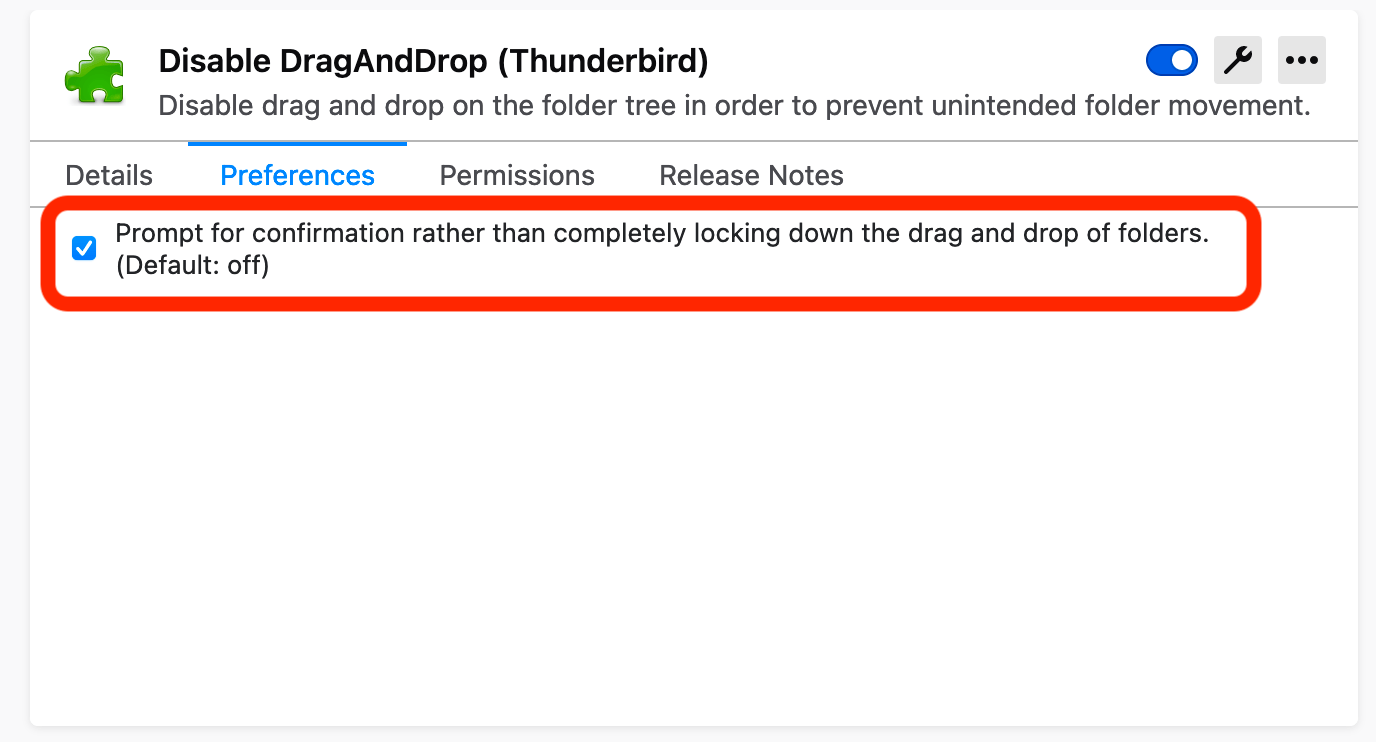
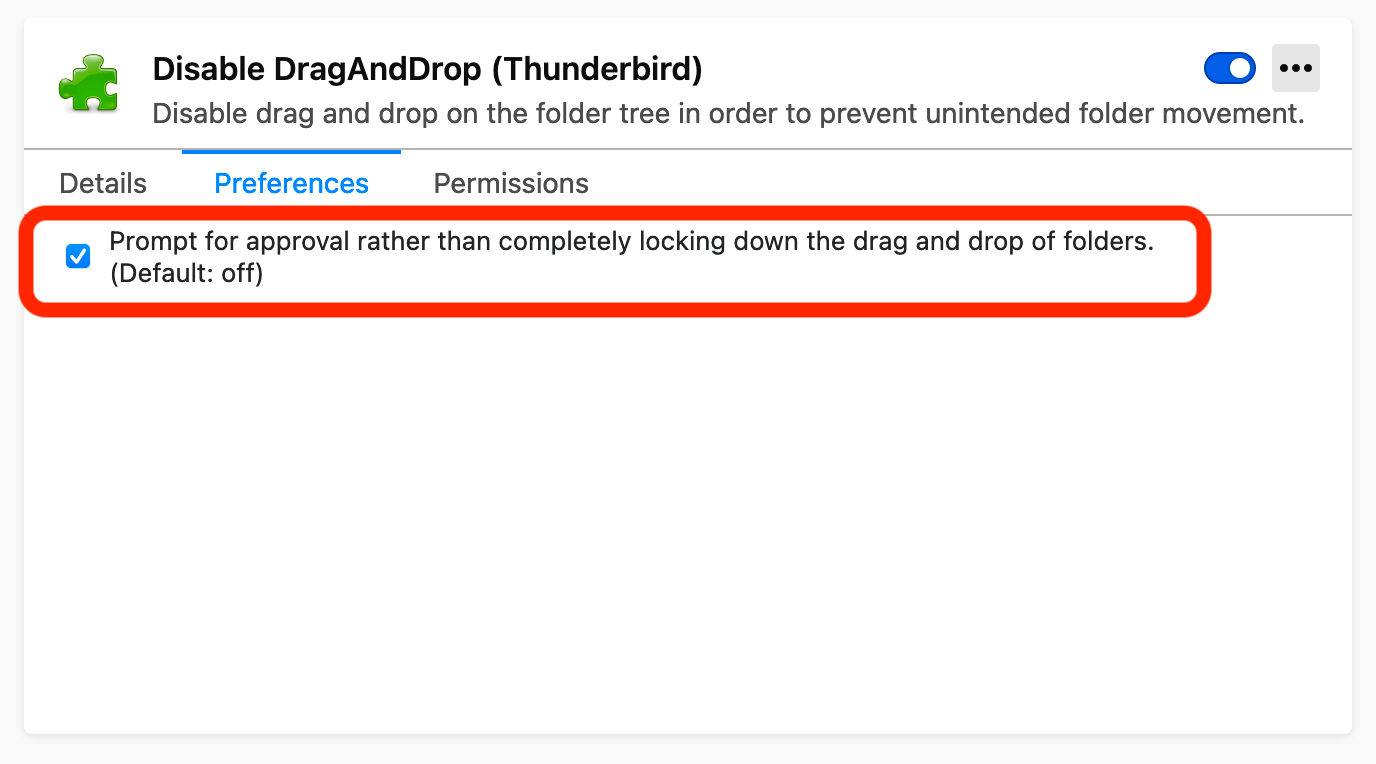
Update configuration text

Changed region(s): [[0.0, 0.031, 0.9688, 0.434]]

diff --git a/sites/disable-draganddrop-tb/content/en/docs/configuration/index.md b/sites/disable-draganddrop-tb/content/en/docs/configuration/index.md
@@ -9,7 +9,7 @@ Your mail folder is protected from drag and drop after you installed the add-on.
 
 ## Options
 
--   `Prompt for confirmation rather than completely locking down the drag and drop of folders` option allows the folder movement if you intended it.<br />
-    When the folder is dropped, the confirmation prompt will be shown. Press OK to move the folder.
+-   `Prompt for approval rather than completely locking down the drag and drop of folders` option allows the folder movement if you intended it.<br />
+    When the folder is dropped, the approval prompt will be shown. Press OK to move the folder.
     {{< local-image src="images/prompt-preferences@2x.png" >}}
     {{< local-image src="images/prompt@2x.png" >}}
